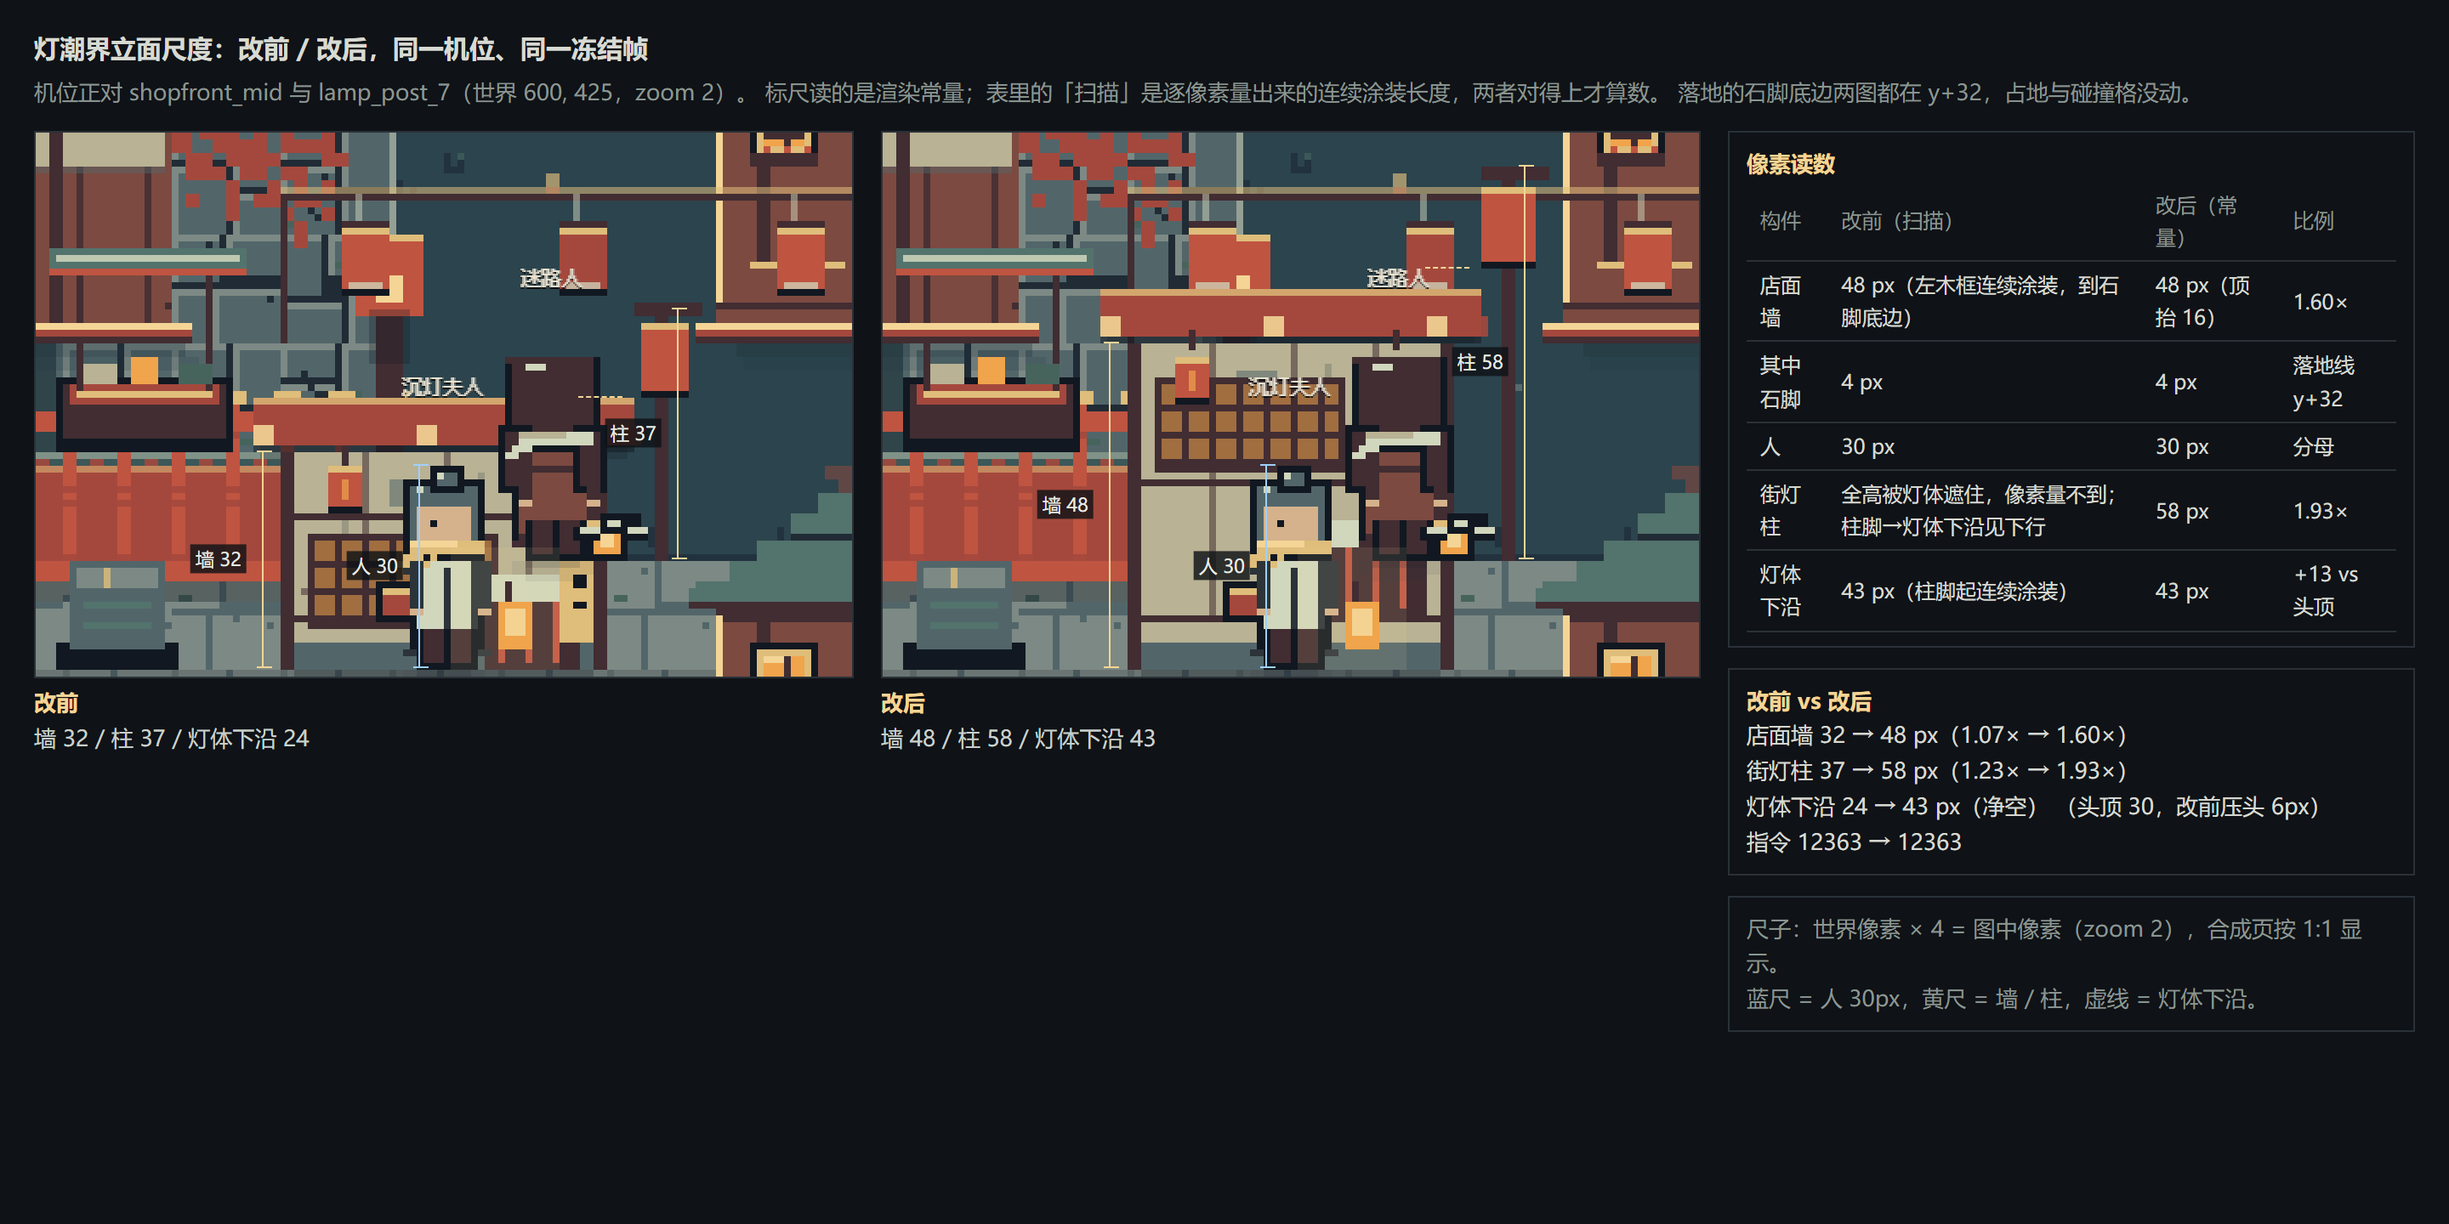
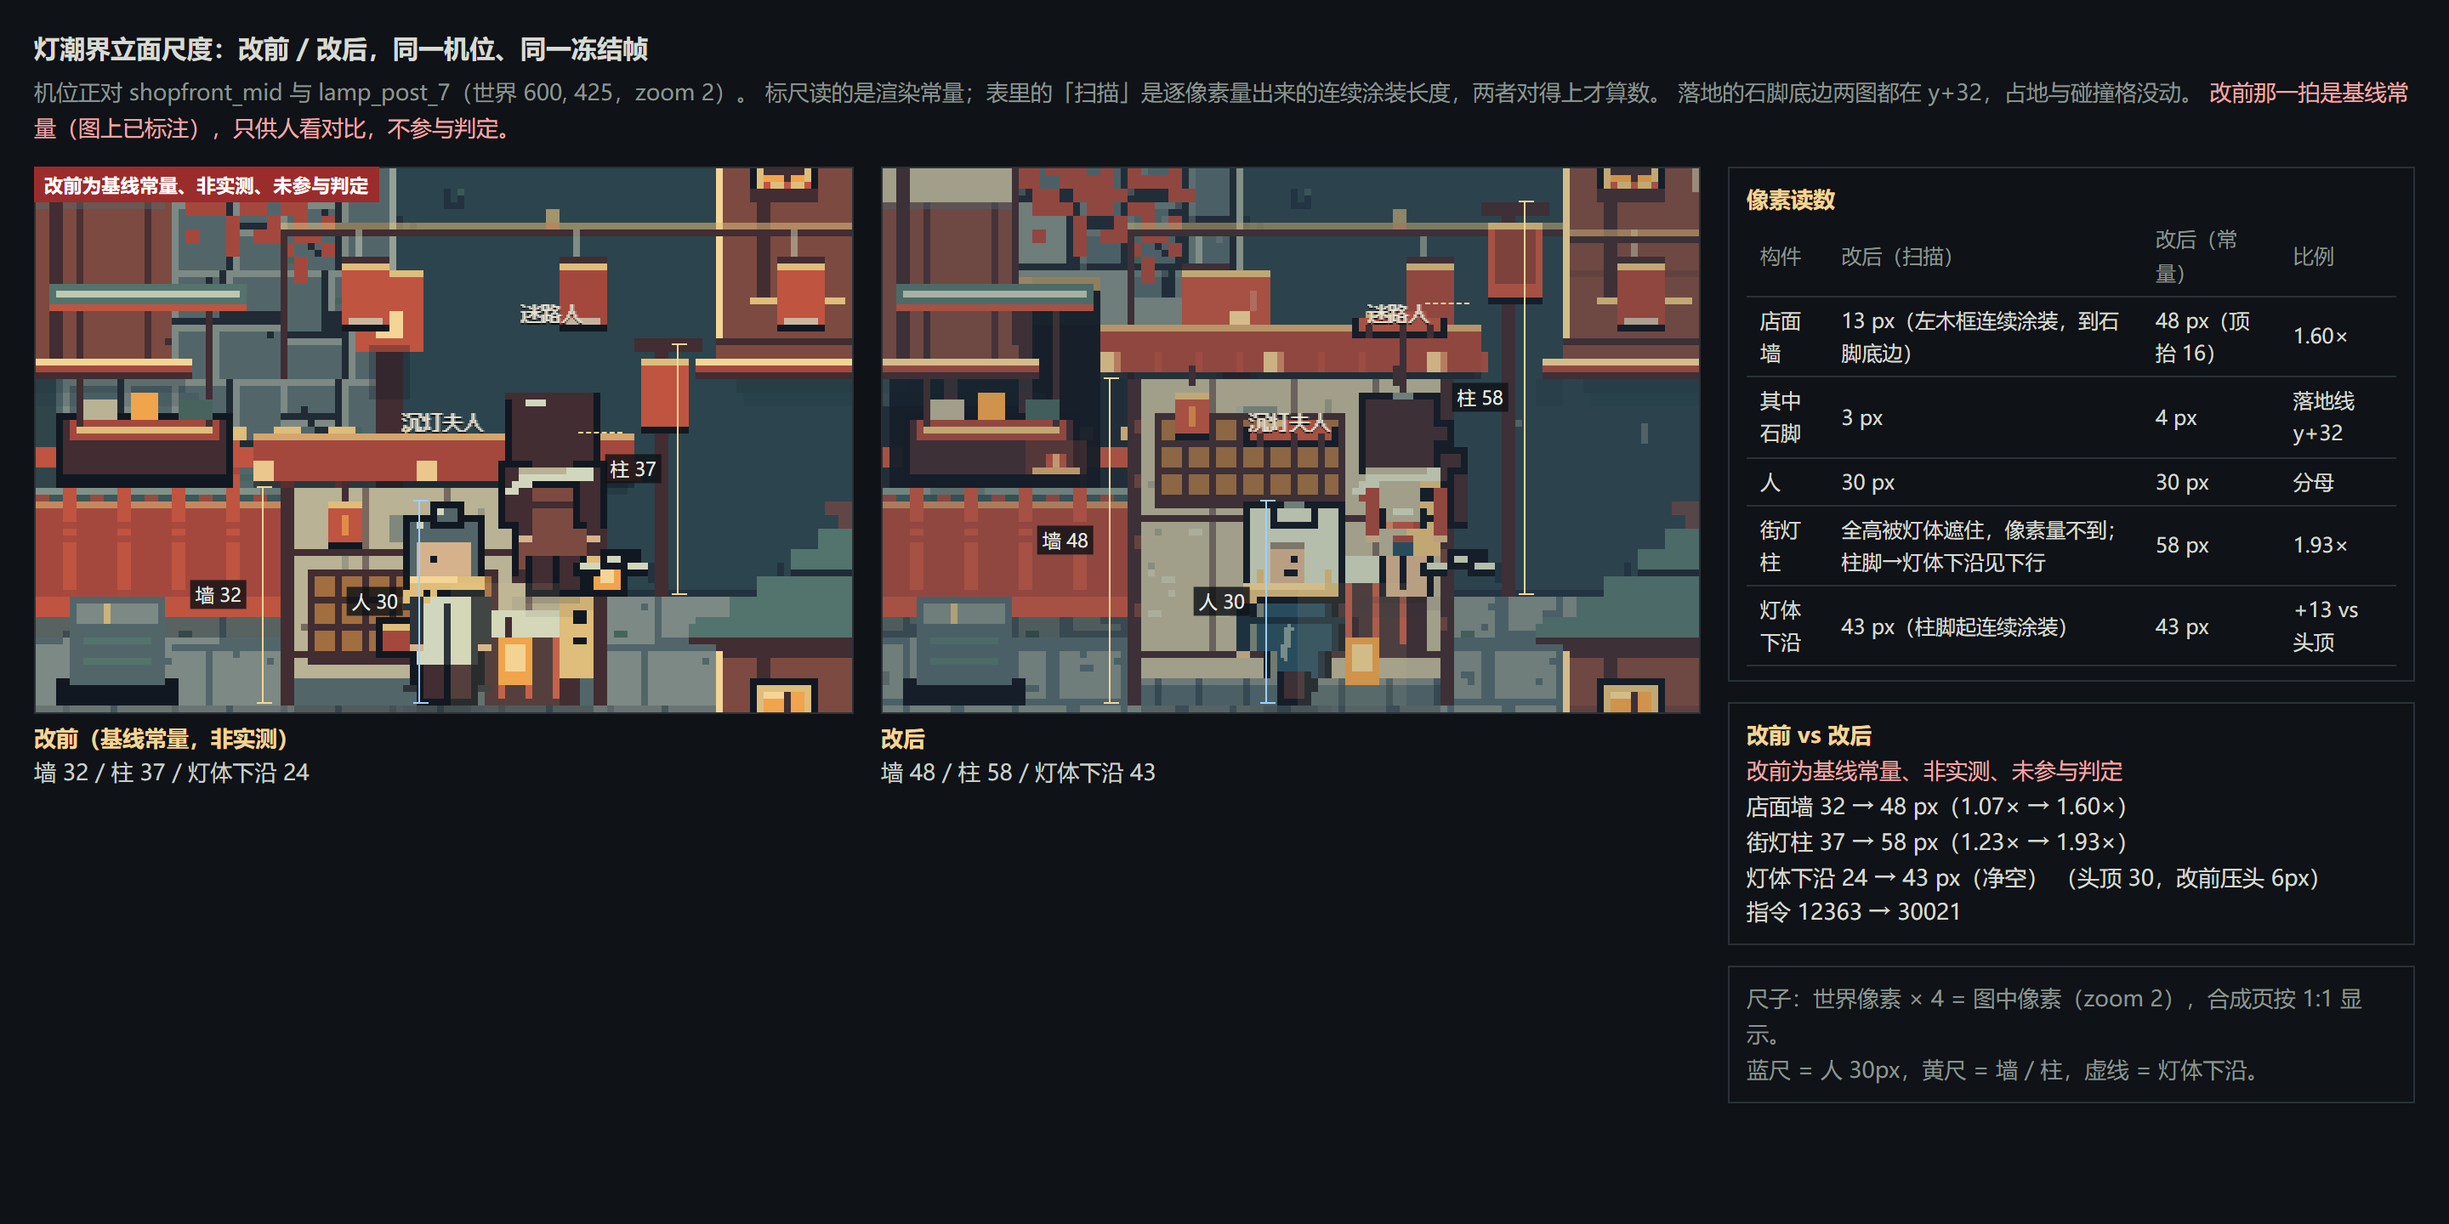
fix(setting-scale): 并排图允许改前基线常量但必须图上标注；旧 after 基线落后 350 个提交（E9）

Changed region(s): [[0.0, 0.0938, 0.9688, 0.9062], [0.9062, 0.0625, 1.0, 0.0938]]

diff --git a/world-client/test/check-setting-scale-probe.test.ts b/world-client/test/check-setting-scale-probe.test.ts
@@ -30,8 +30,15 @@ interface ProbeVerdict {
 interface ProbeModule {
   MEASURED_SOURCE: string;
   BASELINE_SOURCE: string;
+  BASELINE_ANNOTATION: string;
   judgeSettingScaleProbe(probe: ProbeInput, options?: { label?: string }): ProbeVerdict;
   assertMeasuredReading(json: unknown, options?: { label?: string }): Record<string, number>;
+  isMeasuredReading(json: unknown): boolean;
+  isBaselineConstantShot(json: unknown): boolean;
+  readShotForComposite(
+    json: unknown,
+    options?: { label?: string },
+  ): { scale: Record<string, number>; annotation: string | null; fromBaselineConstant: boolean };
 }
 
 const MODULE_PATH = new URL('../scripts/lib/setting-scale-probe.mjs', import.meta.url).href;
@@ -148,4 +155,72 @@ test('消费方把改前基线常量当读数 → 必须抛红（不许拿基线
       }),
     /不是 debugSettingScale 实测读数/,
   );
+});
+
+/** 真·改前基线 JSON 的完整形状（含画标尺要用的 `ancient`）。 */
+const BEFORE_JSON = {
+  label: 'before',
+  metrics: null,
+  metricsSource: '改前基线常量（非实测）',
+  metricsFromBaselineConstant: true,
+  ancient: { personH: 30, shopfrontH: 32, shopfrontTop: 0, lampPostH: 37, lampBodyBottom: 24 },
+};
+
+test('同一份基线常量 JSON：数值消费必须抛，并排图必须成功并带标注', async () => {
+  const { assertMeasuredReading, readShotForComposite, BASELINE_ANNOTATION } = await load();
+  // 数值消费（做差 / 容差判定 / 任何进判据的地方）：硬红，口径不变。
+  assert.throws(
+    () => assertMeasuredReading(BEFORE_JSON, { label: 'before' }),
+    /不是 debugSettingScale 实测读数/,
+  );
+  // 并排图只供人看：允许用基线常量，但必须带回「图上要画出来的那行标注」。
+  const shot = readShotForComposite(BEFORE_JSON, { label: 'before' });
+  assert.equal(shot.fromBaselineConstant, true);
+  assert.equal(shot.annotation, BASELINE_ANNOTATION);
+  assert.equal(shot.annotation, '改前为基线常量、非实测、未参与判定');
+  assert.deepEqual(shot.scale, BEFORE_JSON.ancient);
+});
+
+test('旧基线的来源文案（没有 flag）也算声明过的基线常量，并排图可用', async () => {
+  const { readShotForComposite, isBaselineConstantShot } = await load();
+  // 已跟踪的 setting-scale-before.json 就长这样：只有文案、没有 metricsFromBaselineConstant。
+  const legacy = {
+    label: 'before',
+    metrics: null,
+    metricsSource: 'HEAD 基线常量（无 debugSettingScale）',
+    ancient: { personH: 30, shopfrontH: 32, shopfrontTop: 0, lampPostH: 37, lampBodyBottom: 24 },
+  };
+  assert.equal(isBaselineConstantShot(legacy), true);
+  const shot = readShotForComposite(legacy, { label: 'before' });
+  assert.equal(shot.fromBaselineConstant, true);
+  assert.match(shot.annotation ?? '', /非实测、未参与判定/);
+});
+
+test('并排图只对改前放宽：改后是基线常量必须抛', async () => {
+  const { readShotForComposite } = await load();
+  assert.throws(() => readShotForComposite(BEFORE_JSON, { label: 'after' }), /并排图只允许改前那一拍用基线常量/);
+});
+
+test('基线常量 JSON 里带 metrics：既不是实测也不是基线常量，并排图必须抛', async () => {
+  const { readShotForComposite } = await load();
+  assert.throws(
+    () => readShotForComposite({ ...BEFORE_JSON, metrics: BEFORE_JSON.ancient }, { label: 'before' }),
+    /既不是实测也不是声明过的基线常量/,
+  );
+});
+
+test('基线常量缺 ancient：画不出标尺，并排图必须抛', async () => {
+  const { readShotForComposite } = await load();
+  assert.throws(
+    () => readShotForComposite({ ...BEFORE_JSON, ancient: { personH: 30 } }, { label: 'before' }),
+    /ancient 不可用（缺 shopfrontH/,
+  );
+});
+
+test('改后是实测：并排图不带标注', async () => {
+  const { readShotForComposite, MEASURED_SOURCE } = await load();
+  const shot = readShotForComposite({ metrics: VALID, metricsSource: MEASURED_SOURCE }, { label: 'after' });
+  assert.equal(shot.fromBaselineConstant, false);
+  assert.equal(shot.annotation, null);
+  assert.deepEqual(shot.scale, VALID);
 });

diff --git a/docs/OPEN_ISSUES.md b/docs/OPEN_ISSUES.md
@@ -341,6 +341,50 @@
 - **建议时机**：下一次动 memory/witness 测试或 CI 时。
 - **是否需要用户决策**：**否**（方向明确：检查不许改写工作区）。
 
+### E9. 旧 `setting-scale-after` 基线出自 `2194c52` 构建，落后 350 个提交（2026-11-08 重拍）
+
+- **现状 [实测]**（2026-11-08）：重拍 after 时 `ancient` / `metrics` 的五个尺度值逐一同值
+  （30 / 48 / 16 / 58 / 43），但三处读数与图像变了：`scanned.frameH` 48→13、
+  `scanned.stoneH` 4→3、`stats.totalCommands` 12363→30021、`stats.graphicsObjects`
+  46→155，PNG 哈希不同。命令数 2.4 倍、Graphics 3.4 倍，不是「来源字段过期」能解释的量级。
+- **旧基线出处 [实测]**：`git log --follow` 该文件只有两个提交——`2194c52`（2026-11-04，
+  「scale: 店面墙 32→48px、灯柱 37→58px」）写入，以及本次 `3b68819` 重拍。`2194c52`
+  当时新建了 setting-scale 的 before / after / 并排图三件套，并改
+  `world-client/src/render/setting-scale.ts`、`world-client/src/render/setting-scenery.ts`、
+  `world-client/src/scenes/SandboxScene.ts`、`world-client/src/ui/debug-panel.ts`。
+  `2194c52..HEAD` 共 **350 个提交**（含动画状态机、光照缺口、岸线带、调色板审计、
+  设计验收等合入）。所以旧基线不是「过期的来源字段」，是**旧构建的整份产物**。
+- **48→13 / 4→3：画面真的变了，不是扫描口径**：拿**当前**扫描几何
+  （frameX 148、frameRow 315、frameRefRow 276、stoneX 152、stoneRow 315）分别套旧 PNG
+  与新 PNG：旧 PNG 得 48 / 4 / 43，新 PNG 得 13 / 3 / 43；两图的扫描列、取样几何、
+  脚本算法完全同一份（脚本扫描段自 `2194c52` 起未改）。差别在像素本身：旧图该列是
+  一整段 65,45,50 的 192 屏幕像素连续涂装；新图是 61,48,55（52px）与 100,67,64（8px）
+  交替的横带——即 `world-client/src/render/buildings.ts` 的墙面板缝
+  （`WALL_SEAM_PITCH = 16` 世界像素，1px 横缝，`ee03d84`「修相位切换旧辉光泄漏并锚定
+  墙面板缝」引入）。板缝把连续涂装打断，「从左木框向上数连续段」只能数到 13。
+  **结论：算法没换、取样没错，是美术层加了板缝，基色也从 65,45,50 微调到 61,48,55。**
+- **12363→30021 / 46→155：递归口径 + 350 个提交的合计，不是尺度带来的**：旧
+  `renderStats` 只报顶层；`9617f3a` 改成递归计数（`visited`、嵌套 `sub.totalCommands`），
+  并新增 `top`（仅顶层）与 `containers`。重拍后 `top` 仍是 17,664 / 60，
+  `totalCommands` 才是 30,021 / 155。新值与 `check-render-budget` 现峰值 **33,445**
+  （G5 天花板 34,666）同量级，说明它是当前构建的真实读数。旧值 12,363 / 46 **与同一
+  `2194c52` 的 before 拍统计完全相同**（before 的 `stats.totalCommands` 就是 12,363、
+  `graphicsObjects` 就是 46）——直接证明旧 after 记的是那个旧构建。逐个功能归因
+  **未做**（需要一次二分，收益不抵「旧基线不可用」这个结论）；350 个提交合入的动画
+  状态机、光照缺口、岸线带、调色板审计、设计验收等，共同构成本轮合计读数。
+- **为什么不能比 [事实]**：ADR 要求「同机位、同冻结帧、只差尺度这一件事」。旧基线同时
+  差了 350 个提交（功能 + 美术 + 计数口径），任何差值都无法归因到尺度；拿它做差会把
+  「旧构建」的差异算到本次改动头上。
+- **新基线怎么来 [实测]**：`3b68819` 在当前构建上用 `--write-baseline` 重拍 after，
+  五个值 30 / 48 / 16 / 58 / 43；JSON 的 `metricsSource` 是实测、
+  `metricsFromBaselineConstant` 为 `false`。`before` 未重拍，仍是基线常量口径；并排图
+  允许出现，但图上标注「改前为基线常量、非实测、未参与判定」，该 JSON 不带 `metrics`。
+- **复核**：`git log --follow -- world-client/eval/screens/setting-scale-after.json`；
+  把当前扫描几何套回 `2194c52` 的 after PNG（`git show 2194c52:world-client/eval/screens/setting-scale-after.png`）
+  应得 48 / 4 / 43，套当前 PNG 应得 13 / 3 / 43。
+- **建议时机**：下一次改尺度、改扫描列或再重拍基线时。
+- **是否需要用户决策**：**否**（结论已由像素与提交史证实；重拍保留）。
+
 ## F. Phaser 4 升级遗留（2026-11-06）
 
 ### F1. `?light=` 探针的去向：留分支、不进 main

diff --git a/docs/adr/ADR_SCALE_DUAL_READING.md b/docs/adr/ADR_SCALE_DUAL_READING.md
@@ -50,25 +50,34 @@
   `window.Oracle.debugSettingScale` 实测值时，打印 `[判据前提不成立]` 并**非 0 退出**，
   不退回改前基线常量继续判定——否则「通过」可能只是基线在和自己比。「环境没有这个
   钩子」与「钩子在但读数非法」分开报，后者带实际返回值。
+- **消费方按用途分开（2026-11-08 修正）**：基线常量不是读数，但「要不要判红」取决于
+  这份数被谁用。
+  - **数值消费**（做差、容差判定、任何进入判据的地方）一律走
+    `scripts/lib/setting-scale-probe.mjs` 的 `assertMeasuredReading`：来源不是实测就抛
+    `[判据前提不成立] 读数非法`，基线常量**硬红**。
+  - **仅供人看的并排图**走同模块的 `readShotForComposite`：改前那一拍允许用基线常量，
+    但必须同时满足两条——该 JSON 的 `metrics` 为 `null` 且自报基线来源；渲染出来的图上
+    必须有可见标注「改前为基线常量、非实测、未参与判定」。改后那一拍必须是实测。
+    这样人能看对比，机器拿不到可做差的东西。
 - `SCALE_LABEL=before` 的例外**锁在 JSON 里**，不只靠控制台喊一句：该跑落盘的
   `setting-scale-before.json` 必须同时满足 `"metrics": null`、
   `"metricsSource": "改前基线常量（非实测）"`、`"metricsFromBaselineConstant": true`。
-  任何消费方要把它们当读数，必须走 `scripts/lib/setting-scale-probe.mjs` 的
-  `assertMeasuredReading`：来源不是实测就抛 `[判据前提不成立] 读数非法`，
-  不许静默比较。`check-setting-scale.mjs` 的并排图合成已用它守两拍：拿基线常量
-  去和实测值做差直接 `[改前/改后对比] 判红`。反例见
-  `test/check-setting-scale-probe.test.ts` 与 `test/fixtures/setting-scale-hook-probe.mjs`
-  的「拿基线常量去和实测值做差」一条。
+  反例见 `test/check-setting-scale-probe.test.ts`（同一份基线 JSON：喂数值比较必须抛；
+  走并排图必须成功且带标注）与 `test/fixtures/setting-scale-hook-probe.mjs`。
 - 反例脚本的运行口径：`test/fixtures/setting-scale-hook-probe.mjs` 依赖浏览器，
   **不进 `npm test`**；由改动本脚本或其读数口径的人，在收工前于本工作树手动跑
   `node test/fixtures/setting-scale-hook-probe.mjs`（自带桩页，不要求 vite、不读基线目录）。
   判绿口径：5 条全 PASS 且末尾打印「全部通过」——无钩子 exit 1、非法值 exit 1、
-  合法值 exit 0、无钩子 + 改前声明 exit 0、拿基线常量做差 exit 1。
-- 2026-11-08 因读数口径变更重拍了 `eval/screens/setting-scale-after.{png,json}`：
-  五个尺度常量与 `metrics` 五个值均**未变**（`shopfrontH 48` 等），但扫描读数与
-  渲染统计随当期构建变化（`frameH 48→13`、`stoneH 4→3`、`totalCommands
-  12363→30021`、`graphicsObjects 46→155`），图像非逐字节相同。此次**未**重拍
-  `before`，它仍是基线常量口径；并排图合成会被 `assertMeasuredReading` 判红。
+  合法值 exit 0、无钩子 + 改前声明 exit 0、改前基线常量 + 并排图 exit 0 且打印
+  「并排图标注：改前为基线常量、非实测、未参与判定」。
+- 2026-11-08 重拍了 `eval/screens/setting-scale-after.{png,json}`：五个尺度常量与
+  `metrics` 五个值均**未变**（`shopfrontH 48` 等），但扫描读数与渲染统计随当期构建变化
+  （`frameH 48→13`、`stoneH 4→3`、`totalCommands 12363→30021`、
+  `graphicsObjects 46→155`），图像非逐字节相同。查清后确认**旧基线出自另一个构建**
+  （`2194c52`，落后 HEAD 350 个提交）：48→13 是墙面板缝改了连续涂装、12363→30021 是
+  `renderStats` 换成递归口径，都不是「来源字段过期」。完整调查见
+  `docs/OPEN_ISSUES.md` 的 E9；旧 `after` 不再用于任何比较。此次**未**重拍 `before`，
+  它仍是基线常量口径；并排图按上面的「仅供人看」路径合成，图上带标注。
 - 「改前 / 改后」必须是同一机位、同一冻结帧、只差尺度这一件事；改前那一拍要先
   `git stash` 掉 `src/` 的改动，再拍 `before`，恢复后拍 `after`。
 - 这条不替代别的闸门（预算、调色板、单测），只补上「尺度类改动」这一格的证据口径。

diff --git a/docs/evidence/E7_SCREENS_CONSUMPTION.md b/docs/evidence/E7_SCREENS_CONSUMPTION.md
@@ -264,7 +264,7 @@ git -C D:\project\pwe-baseline-audit grep -n "ground-shadow-closed-t|scene-motio
 | `check-lamp-band.mjs` 负测（移走 before JSON） | **退出 1**，`[改前/改后对比] 判红：缺少改前基线JSON…` | 缺输入即红 |
 | `check-scene-motion.mjs`（5251） | 通过：13/13 确定性；灯灭池指令 0/0、帧差 0.00%；dark 帧改写 tmp | 删 dark 副本不影响脚本，tmp 仍产出该帧 |
 | `check-ground-shadow.mjs`（5251） | 通过，exit 0：判据绿；全关同刻两页 0.00%，跨 t/t+1s 0.00%；closed 组不读基线 | 删 closed-t 不影响读数 |
-| `npm test` | 2528 tests / 2518 pass / 1 fail / 9 skip（删除那轮）；**2026-11-08 已修**：`docs/OPEN_ISSUES.md:429` 原来的 pixel-world-engine/docs/DESIGN_ACCEPTANCE.md 写法靠「目录名恰好等于 pixel-world-engine」才被后缀匹配放过，改成仓内相对路径 `docs/DESIGN_ACCEPTANCE.md` 后，`audit-citations --strict` 在本工作树也是 **0 未解析**，该测试转绿。 | 环境差异不是缺陷，改写法即消除 |
+| `npm test` | 2528 tests / 2518 pass / 1 fail / 9 skip（删除那轮）；**2026-11-08 已修**：`docs/OPEN_ISSUES.md:473` 原来的 pixel-world-engine/docs/DESIGN_ACCEPTANCE.md 写法靠「目录名恰好等于 pixel-world-engine」才被后缀匹配放过，改成仓内相对路径 `docs/DESIGN_ACCEPTANCE.md` 后，`audit-citations --strict` 在本工作树也是 **0 未解析**，该测试转绿。 | 环境差异不是缺陷，改写法即消除 |
 
 ## 七、E7 结案取舍
 
